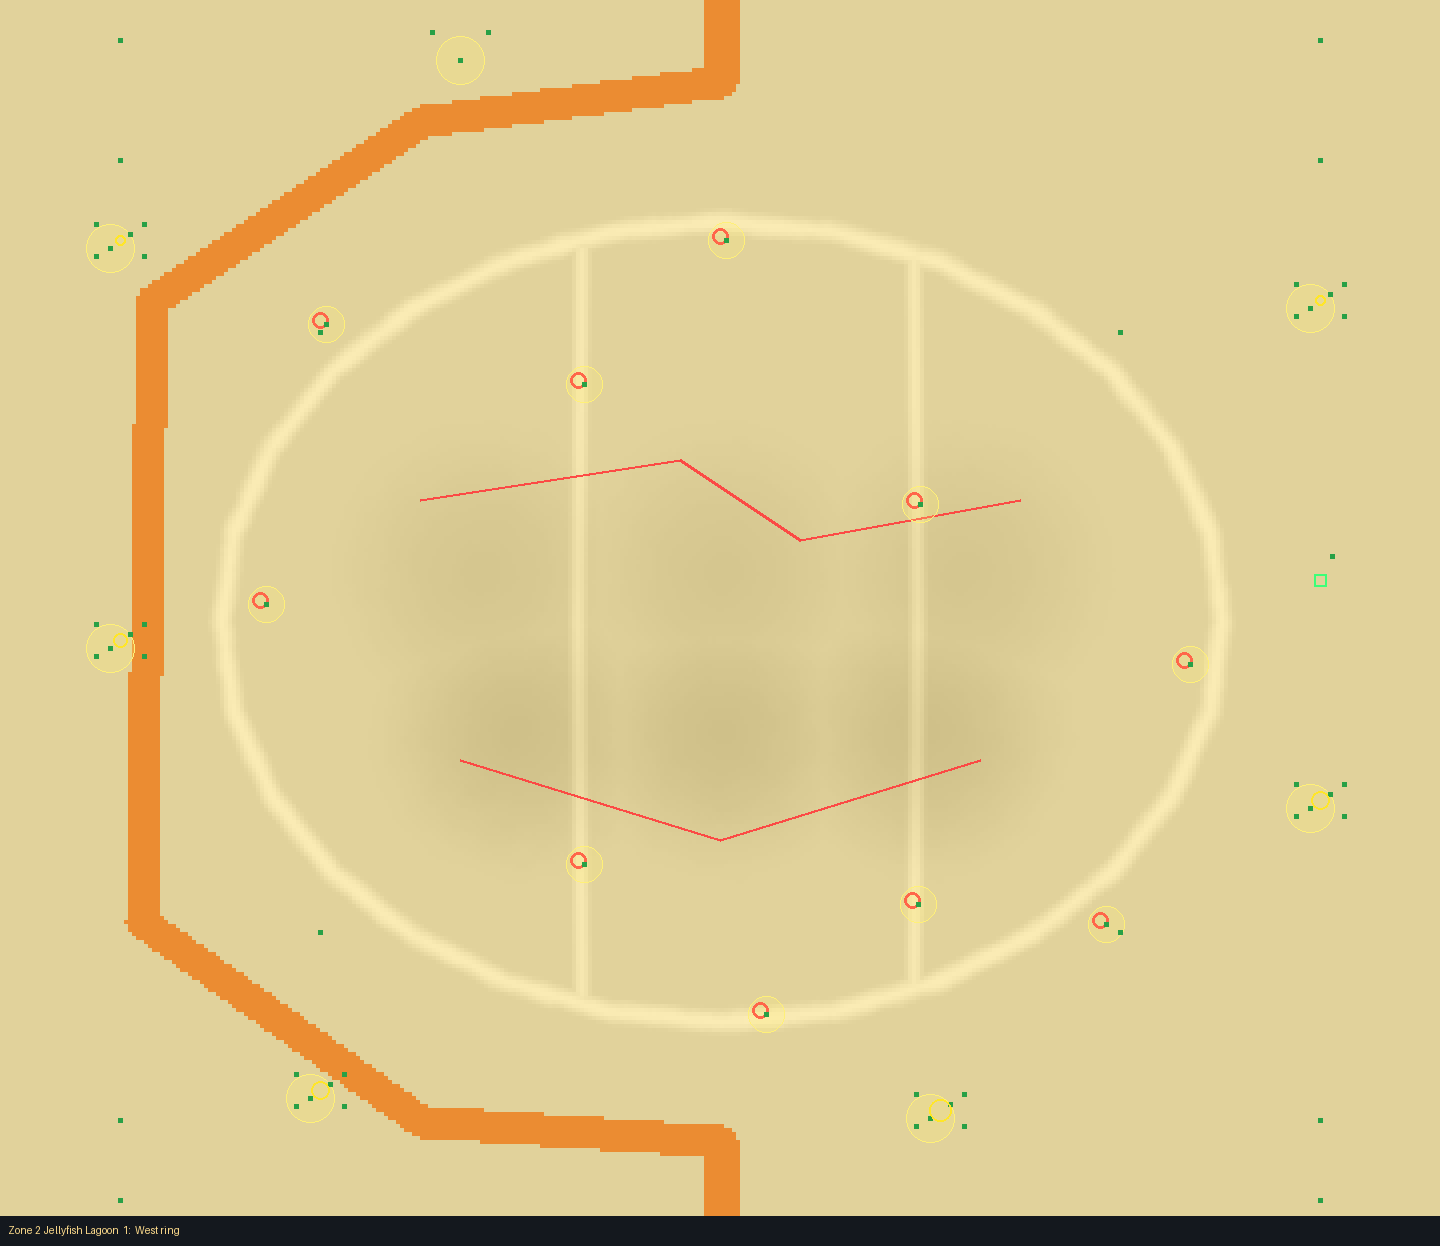
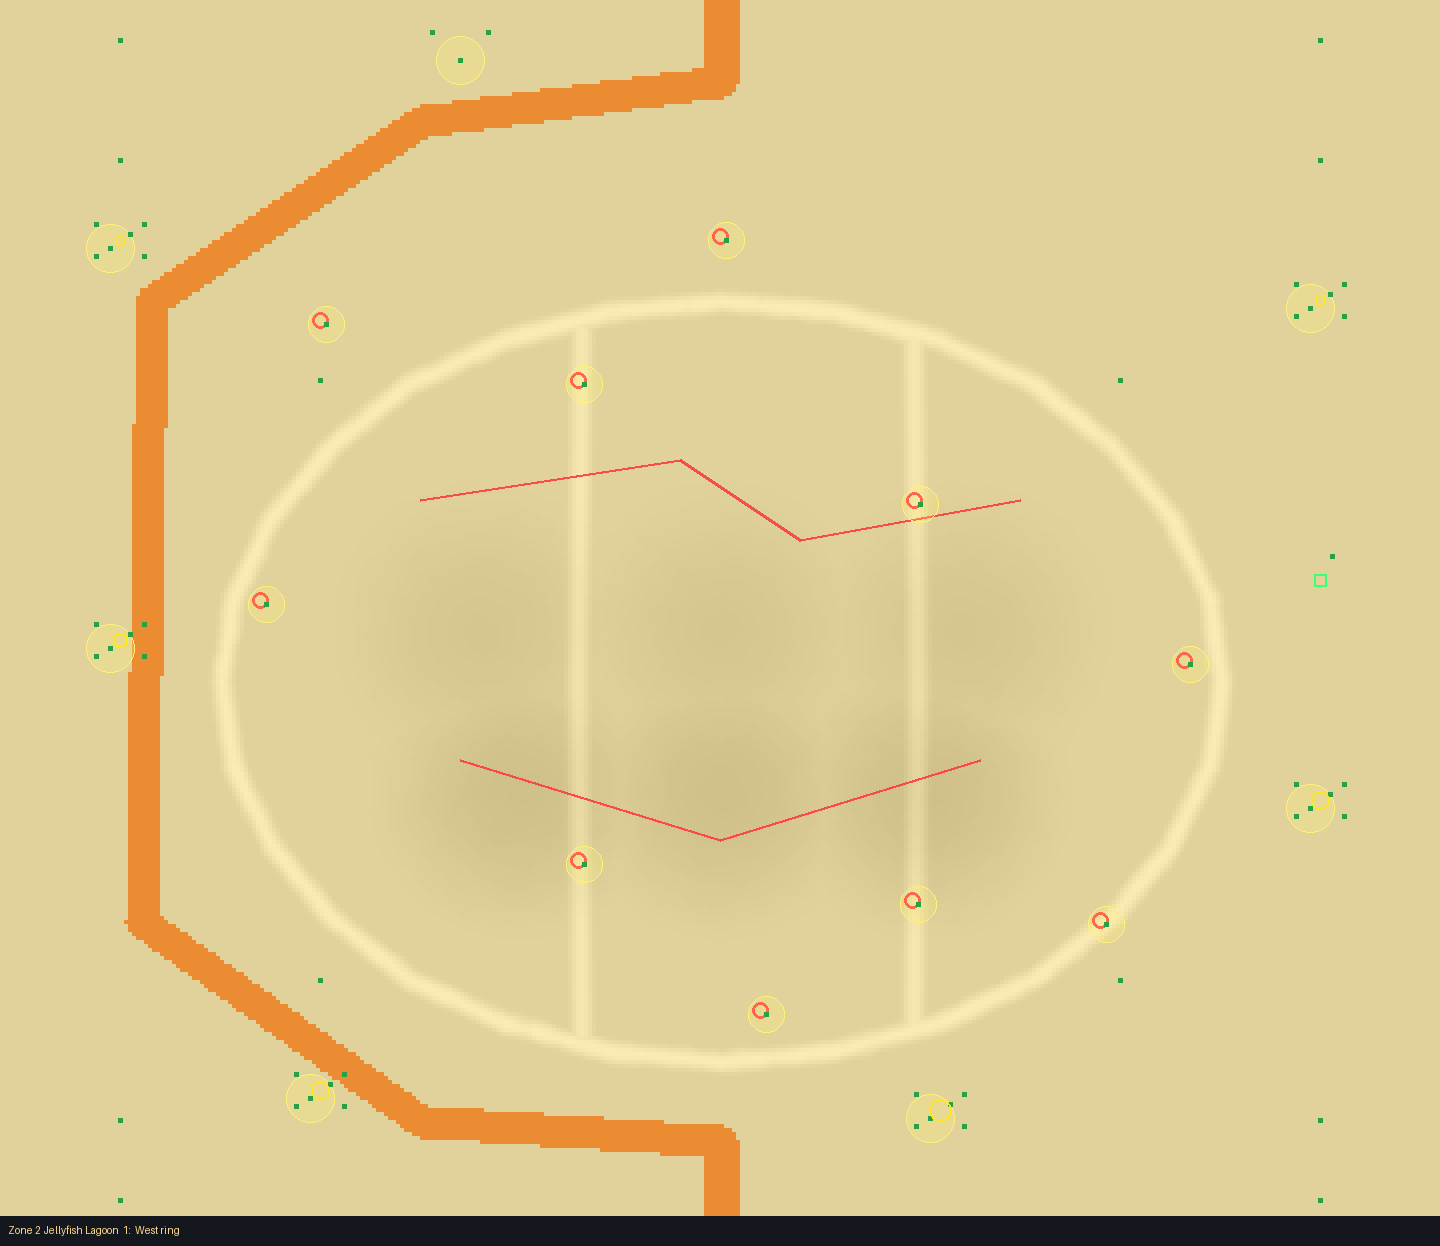
Jellyfish Lagoon: wider causeways, notes and pictures
Claude-Session: https://claude.ai/code/session_01Rzk2jo5zeuLgwEsf1G5YzW

diff --git a/tools/kit/plans/jellyfish_lagoon.py b/tools/kit/plans/jellyfish_lagoon.py
@@ -90,8 +90,8 @@ def shore(n, bank, hollow_depth):
     ring = ellipse(cx, cz, 250, 190, 28)
     f.ridge(closed(ring), height=bank, width=16, rock=False, rough=1)
     # Two causeways across, north to south: one with a ford cut in it (foot only).
-    f.ridge([(-70, 165), (-72, 340), (-70, 515)], height=bank - 0.6, width=12, rough=0)
-    f.ridge([(96, 165), (98, 340), (96, 510)], height=bank - 0.6, width=12, rough=0)
+    f.ridge([(-70, 165), (-72, 340), (-70, 515)], height=bank - 0.6, width=16, rough=0)
+    f.ridge([(96, 165), (98, 340), (96, 510)], height=bank - 0.6, width=16, rough=0)
     f.add(Kind="Channel", Path=[(98, 360), (98, 396)], Depth=2.4, Width=8, Rough=0, Material=MUD)
     f.decor("Weed", area=box(0, 340, 400, 300), count=10)
     f.decor(GLOW, area=box(0, 340, 400, 300), count=8)
@@ -160,13 +160,15 @@ def rows_down(first, count, step=36):
 def lagoon_hall(z, cz, rz, roof, pillars):
     f = z.frame
     poly = ellipse(0, cz, RX, rz, 36)
-    f.hall(poly, roof=roof, pillars=pillars)
+    f.hall(poly, roof=False, pillars=pillars)
     # The lagoon itself: hollows filling the cavern's middle, the seaward ones deeper.
     r = min(70, rz - 60)  # kept off the ring, where the cart ramp runs
     for x in (-85, 0, 85):
         f.hollow((x, cz - 10), radius=r, depth=3, rough=2, material=MUD)
         f.hollow((x, cz + 15), radius=r, depth=4, rough=2, material=MUD)
     f.paint(poly, SAND)
+    if roof:
+        f.roof_area(poly)
     f.decor("Weed", area=box(0, cz, 300, rz * 1.4), count=12)
     f.decor(GLOW, area=box(0, cz, 300, rz * 1.4), count=8)
     f.decor("Shells", area=box(0, cz, 2 * RX - 20, rz * 1.8), count=6)

diff --git a/docs/layouts/JellyfishLagoon.md b/docs/layouts/JellyfishLagoon.md
@@ -1,109 +1,54 @@
-# Jellyfish Lagoon (planned, draft)
+# Jellyfish Lagoon (biome, planned; zones 2 to 6)
 
-Draft, not in use. One big lagoon hollow, ringed by a bank with causeway gaps, behind a bank across the zone.
+Drawn with the kit from `tools/kit/plans/jellyfish_lagoon.py` (edit the plan and re-run it),
+written to `src/shared/Layouts/Biomes/Planned/JellyfishLagoon.luau`. Card:
+`docs/design/cards/jellyfish-lagoon.md`. Decisions from the card's answers: some jellies lie
+stranded on land with a sting area (radius 4, they also damage); in zones 5 and 6 the stun
+applies and the whole lagoon sits under a rock ceiling.
 
-## Maps
+## What was built
 
-Top-down, the top edge at the top, the sea at the bottom. Legend: `#` rock, `^` raised sand, `.` flat, `~` floods at mid-tide, `=` cart ramp, `o` entrance flat.
+- **Zones 2 and 3 (open shore, no walls or rock).** A lagoon of six overlapping hollows (the
+  seaward row deeper, so it floods from the sea side first) in a ring of sand (a ridge, 4.2 high in
+  zone 2, 6 in zone 3), two causeways across it north to south (one has a foot-only ford cut in
+  it), mud and glowing weed in the water, six loot coves round the ring (best on the sea side)
+  and the entrance on the east. Two crossings (West ring, East ring): the cart's ramp swings round
+  the ring on that side, feet cut across the causeways.
+- **Zones 4 to 6 (rock 14, 18 and 20 high).** The lagoon is an oval cavern with the
+  hollows inside and the ring floor round the rim. Each of the two crossings (East way, West way,
+  mirror images) has three paths: **the ring** (the cart's ramp, snaking through a top snake,
+  round the rim, a bottom snake), **the causeway** (a foot lane with a snake above, a causeway
+  across the water with a foot-only ford, down), **the lagoon floor at low tide** (a foot lane with
+  its own snakes, across the hollows). The foot lanes have a rubble step where they reach the
+  cavern (feet clamber, carts can't). Four loot coves in rock chambers off the rim, the entrance
+  in the north-east one. Zones 5 and 6: a kit roof over the whole cavern, resting on the rock rim
+  with nine pillars (about 30% of the zone roofed).
+- **Jellies.** Drifting ones (`Path`) in the water: 2 in each zone. Stranded ones (`At`, radius 4):
+  on the ring and the causeway, 10 in zone 2 and 3 (on foot's way across), then 12 (zone 4),
+  14 (zone 5), 16 (zone 6), with glowing shells at each one as the tell.
 
-<!-- map Biomes/Planned/JellyfishLagoon@1 -->
-```text
-..............===....................................==.................
-.............==.......................................==................
-............==.........................................=................
-..........===..........................................==...............
-..........==............................................==..............
-...........==...........................................==..............
-...........==............................................=..............
-............==.... ^^^^^^^^^^^  ........................==..............
-............==..........................................==..............
-.............==.........................................==..............
-.............==.........................................=...............
-..............=........................................==...............
-..............==.......................................==...............
-...............=......................................==................
-. ^^^^^^^^^^^^^==^^^^^^^^^^^^^^^^^ .. ^^^^^^^^^^^^^^^== ^^^^^^^^^^^^^^ .
-```
-<!-- /map -->
-<!-- map Biomes/Planned/JellyfishLagoon@2 -->
-```text
-..............===....................................==.................
-.............==.......................................==................
-............==.........................................=................
-........ ^===  ........................................==.^^^^^ ........
-^^^^^^^^^^==^^^^^^^^^^^^^^^^^^^^^^^^^^^..^^^^^^^^^^^^^^ ==^^^^^^^^^^^^^^
-...........==...........................................==..............
-...........==............................................=..............
-............==...............  .........................==..............
-............==...............  .........................==...  .........
-....^ .......==........ ^^^^^^..............^^^^^^^^^^^^==^^^^^^ .......
-....^^^^^^^^^==^^^^^^^^^^^ .................^^^  .......=... ^^^^^^^^ ..
-..............=........................................==...............
-..............==.......................................==...............
-...............=......................................==................
-...............==....................................==.................
-```
-<!-- /map -->
-<!-- map Biomes/Planned/JellyfishLagoon@3 -->
-```text
-..............===....................................==.................
-.............==.......................................==................
-............==.........................................=................
-^^^^^^^^^^===^^^^^^^^^^^^^^^^^^^^^^^^^^..^^^^^^^^^^^^^^==^^^^^^^^^^^^^^^
-..........== ^^^^^^.....................................==..............
-...........==...........................................==..............
-...........==............................................=..............
-............==..........................................==..............
-......^ ....==............... ^^^^..........^^^^^^^^^...==... ^^^^^^^^^.
-......^^^^^ .==^^^^^^^^^^^^^^^^ .......................^==^^^^^ ........
-.............==...................                 .....=...............
-......       .=                   ...................  ==   ............
-..............==.......................................==...............
-...............=......................................==................
-...............==....................................==.................
-```
-<!-- /map -->
-<!-- map Biomes/Planned/JellyfishLagoon@4 -->
-```text
-..............===....................................==.................
-.............==.......................................==................
-............==.........................................=................
-#####..###===########################################..==###############
-..........==.......#...#....................##..##......==..............
-...........==......#...#..............  ....##..##......==.......##.....
-...........==....................##...~~.................=..............
-............==.....................##..##...............==..............
-~~~~~~~~~~~~==~~~~~~~~~~~~~~~~~~~~~##~~##~~~~~~~~~~~~~~~==~~~~~~~~~~~~~~
-#############==#########################################==#~~~~#########
-~~~~~~~~~~~~~==~~~~~~~~~~~~~~~~~~~~##~~##~~~~~~~~~~~~~~~=~~~~~~~~~~~~~~~
-~~~~~~~~~~~~~~=~~~~~~~~~~~~~~~~~~~~##~~##~~~~~~~~~~~~~~==~~~~~~~~~~~~~~~
-~~~~~~~~~~~~~~==~~~~~~~~~~~~~~~~~~~~~~~~~~~~~~~~~~~~~~~==~~~~~~~~~~~~~~~
-###############=#####~~#########################~~####==#############~##
-~~~~~~~~~~~~~~~==~~~~~~~~~~~~~~~~~~~~~~~~~~~~~~~~~~~~==~~~~~~~~~~~~~~~~~
-```
-<!-- /map -->
+## Measured (quick check; fastest on foot against the target)
 
-## Flood order
+| Zone | Target | Paths (s) | Huge cart (s) |
+|---|---|---|---|
+| 2 | 36 | 30 / 30 / 30 (84%) | 30 |
+| 3 | 38 | 30 / 30 / 30 (80%) | 30 |
+| 4 | 55 | 46 (causeway) / 49 (floor) / 63 (ring) | 69 |
+| 5 | 65 | 61 (causeway) / 63 (floor) / 72 (ring) | 77 |
+| 6 | 85 | 76 (causeway) / 77 (floor) / 86 (ring) | 91 |
 
-As the tide comes in, the sea flows in from the seaward edge and reaches each cut when the waterline falls to the height at which a connected path of water exists. A cut walled off by higher ground floods later than its depth alone suggests.
+Each crossing has a Huge cart's way (the ring ramp, 16 wide, top to bottom). On the shore a cart
+has to go round the ring while feet cut across.
 
-<!-- floods Biomes/Planned/JellyfishLagoon@1 -->
-Hollow at x 0, z 90: the sea reaches it when the waterline is below Z 110
-<!-- /floods -->
-<!-- floods Biomes/Planned/JellyfishLagoon@2 -->
-Hollow at x 0, z 90: the sea reaches it when the waterline is below Z 719
-<!-- /floods -->
-<!-- floods Biomes/Planned/JellyfishLagoon@3 -->
-Hollow at x 0, z 90: the sea reaches it when the waterline is below Z 1327
-<!-- /floods -->
-<!-- floods Biomes/Planned/JellyfishLagoon@4 -->
-Hollow at x 0, z 90: the sea reaches it when the waterline is below Z 1913
-<!-- /floods -->
+## Test Range (one zone at a time, `--no-routes`)
 
-## Shortcuts
+- Zone 2: terrain follows (0.05 average); one spot 2.5 off at a causeway crest; buried and floating
+  props are the zone's own (shell grit, lounge chairs), none of this biome's.
+- Zone 3: 0.06 average, worst 2.5 (causeways widened to 16 to stop crests coming out low).
+- Zone 4: 0.15 average; nothing of ours reported.
+- Zone 5: 0.3 average; **open**: the roof's underside is 2.5 to 2.9 studs off its layout at some
+  rows (z 2628 to 2844, at every clearance tried: 12, 14, 16, 17), tolerance 2.5; seems to be the
+  terrain's 4-stud steps under a wide roof, zone 6 comes within 2.4 of it.
+- Zone 6: 0.25 average, one spot 2.5 off at a pillar edge; no roof problems.
 
-Shortcut starts counts how many of five start points on the top edge reach the sea faster on foot than by cart. The ramps are the cart route, and gaps and steep banks are the foot route.
-
-## What a player sees from the top
-
-The bank across each zone is the main shape from the top: zone 1 stays open, and zones 2 to 4 hide most of the lower half. The maze, pools and channels show as strips and gaps where the bank breaks.
+Pictures: `jellyfish-lagoon-z2.png`, `-z4.png`, `-z5.png`, `-z6.png`.
